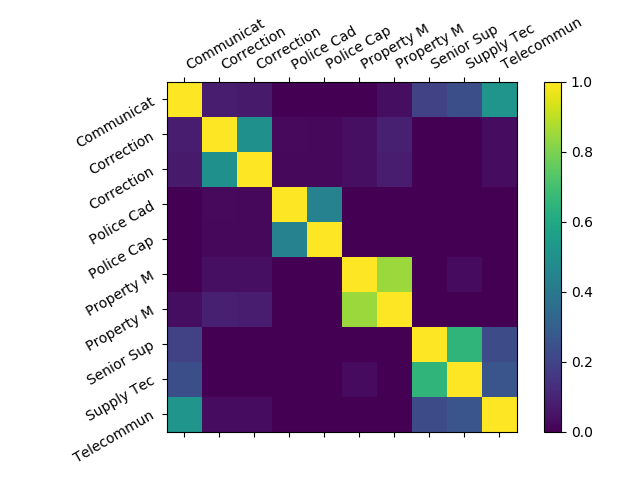
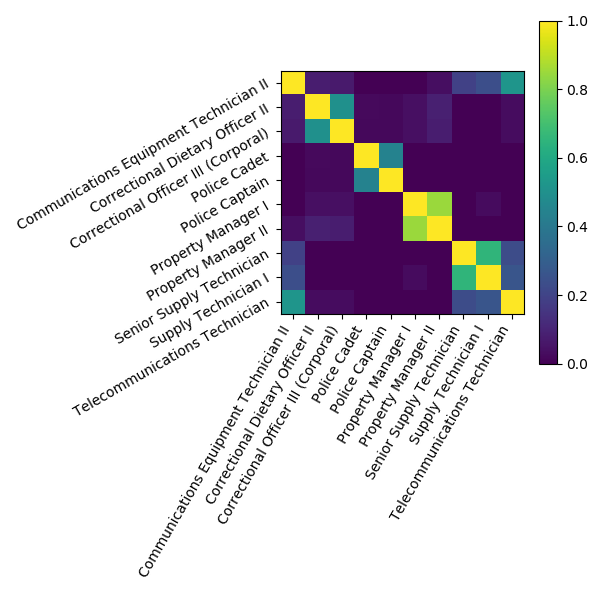
Pushing the docs to dev/ for branch: master, commit 33e820efc6979a7e437038ede7b4303ab44ae2ee

diff --git a/dev/searchindex.js b/dev/searchindex.js
@@ -1,1 +1,1 @@
-Search.setIndex({docnames:["auto_examples/index","auto_examples/midwest_survey","auto_examples/plot_employee_salaries","auto_examples/plot_investigating_dirty_categories","generated/dirty_cat.SimilarityEncoder","generated/dirty_cat.TargetEncoder","generated/dirty_cat.datasets.fetch_employee_salaries","index","versions"],envversion:53,filenames:["auto_examples/index.rst","auto_examples/midwest_survey.rst","auto_examples/plot_employee_salaries.rst","auto_examples/plot_investigating_dirty_categories.rst","generated/dirty_cat.SimilarityEncoder.rst","generated/dirty_cat.TargetEncoder.rst","generated/dirty_cat.datasets.fetch_employee_salaries.rst","index.rst","versions.rst"],objects:{"dirty_cat.SimilarityEncoder":{__init__:[4,1,1,""],categories_:[4,2,1,""],fit:[4,1,1,""],fit_transform:[4,1,1,""],get_params:[4,1,1,""],set_params:[4,1,1,""],transform:[4,1,1,""]},"dirty_cat.TargetEncoder":{__init__:[5,1,1,""],categories_:[5,2,1,""],fit:[5,1,1,""],fit_transform:[5,1,1,""],get_params:[5,1,1,""],set_params:[5,1,1,""],transform:[5,1,1,""]},"dirty_cat.datasets":{fetch_employee_salaries:[6,3,1,""]},dirty_cat:{SimilarityEncoder:[4,0,1,""],TargetEncoder:[5,0,1,""]}},objnames:{"0":["py","class","Python class"],"1":["py","method","Python method"],"2":["py","attribute","Python attribute"],"3":["py","function","Python function"]},objtypes:{"0":"py:class","1":"py:method","2":"py:attribute","3":"py:function"},terms:{"3gram":3,"boolean":[4,5],"case":[3,4],"class":[4,5],"default":[4,5],"float":2,"function":[1,2],"import":[1,3],"long":3,"new":2,"return":[1,2,4,5],"static":[1,2],"true":[1,2,4,5],"try":3,Age:1,MDS:3,That:3,The:[1,2,4,5,7],Use:[1,2],Using:3,__init__:[4,5],aarhu:3,aaron:3,ababio:3,ababu:3,abandon:3,account:3,accuraci:1,adding:[1,2,3],addit:5,administr:3,affect:2,algorithm:3,all:[0,1,4,5,7],all_scor:[1,2],also:3,altern:4,although:3,ani:[4,5],annual:[2,3],append:[1,2],appli:2,approach:5,arang:3,arkansa:1,arrai:[4,5],assign:[2,3],assist:3,associ:[2,5],astyp:[1,2],attribut:[4,5],auditor:3,auto:[4,5],auto_examples_jupyt:[0,7],auto_examples_python:[0,7],automat:[4,5],ax2:3,base:[3,4,8],basic:[0,2,4,6,7],bay:5,below:8,benchmark:[1,2],better:3,between:4,binari:5,both:2,boxplot:[1,2],branch:2,busi:3,calcul:4,call:[1,3],can:[1,2,3,4,5,7],carri:2,categor:[1,2,4,5],categori:[2,3,4,5],categoricalencod:[1,2,4],categoricl:2,categories_:[3,4,5],cax2:3,censu:1,choic:3,chose:2,classif:[1,5],classifi:1,clean:3,clean_column:[1,2],clear:3,clf:[2,5],clf_type:5,close:3,code:[0,1,2,3,7],col:2,colorado:1,colorbar:3,column:[3,4,5],columntransform:[1,2],combin:[1,2],common:3,commun:3,compon:[4,5],compos:[1,2],condit:5,consid:5,consist:[1,2],contain:[2,4,5],copi:[0,7],correspond:[4,5],counti:3,countri:1,coupl:3,cours:3,creat:3,crop:3,cross:[1,2],cross_val_scor:[1,2],curat:7,current:[2,3],dakota:1,data:[0,4,5,6,7],dataset:[1,2,3],datataset:2,date:[2,3],david:3,deep:[4,5],def:[1,2],denot:[4,5],dens:[1,2],depart:[2,3],depend:2,descript:[1,2],desir:[4,5],determin:[4,5],dev0:8,dev:8,differ:[1,2,3],directori:[0,7],dirti:[2,4],dirty_cat:[1,2],dirty_column:[1,2],dissimilar:3,distanc:3,distribut:3,divis:3,doe:[1,3],doing:3,download:[0,1,2,3,7],drop:[1,2,7],dtype:[3,4,5],dure:[4,5],each:[1,4,5],educ:1,effect:5,emb:3,embed:3,empir:5,employe:[0,3,4,5,6,7],employee_salari:[2,3],enc:2,encod:[4,5,7],encoder_dict:1,encoders_dict:2,encoding_method:[1,2],encount:[4,5],end:1,enforc:3,ensembl:1,equip:3,error:[4,5],essaya:3,estim:[4,5],etc:3,eventu:2,exampl:2,execut:[0,3,7],expect:[4,5],fals:[1,2,3],featur:[1,2,4,5],fetch_employee_salari:[2,3],fetch_midwest_survei:1,figur:3,first:[1,2,3],fit:[3,4,5],fit_param:[4,5],fit_transform:[3,4,5],float64:[4,5],follow:[0,2,7],fontsiz:3,form:[4,5],format:2,found:[4,5],from:[1,2,3,4,5],full:3,full_nam:3,functiontransform:[1,2],galleri:[0,1,2,3,7],gender:[1,2,3],gener:[0,1,2,3,7],get:[2,3,4,5],get_param:[4,5],git:8,given:5,godfr:3,gram:3,grasp:3,gross:3,handle_unknown:[1,2,4,5],has:5,have:[0,2,3,4,5,7],head:3,help:[1,3],here:[1,3],hire:[2,3],hold:[4,5],hot:[1,2,3,4,5],household:1,how:[0,1,2,3,7],howev:3,identif:1,ignor:[1,2,4,5],iii:3,illinoi:1,impact:1,implement:4,improv:1,incom:1,indiana:1,indic:3,indices_:3,initi:3,input:[1,4,5],instal:[0,7],instanci:2,instead:[1,2],instruct:[0,7],int64:3,introductori:[0,7],intuit:3,invers:[4,5],iowa:1,ipynb:[1,2,3],item:2,ith:[4,5],jaro:4,job:3,jupyt:[0,1,2,3,7],kansa:1,kei:2,kentucki:1,kfold:2,kind:[2,3],kneighbor:3,knn:3,label:3,lambda:[2,3],latter:[4,5],learn:[1,2,3],left:3,legend:3,len:3,let:[1,2,3],levenshtein:4,lie:3,like:[2,4,5],linear_model:2,list:[3,4,5,8],live:1,locat:1,look:[0,2,4,6,7],loop:2,lot:[1,3],low:3,make:[0,7],make_pipelin:[1,2],mani:3,manifold:3,manipul:[0,4,6,7],manual:[0,7],map:[4,5],marsha:3,master:2,matplotlib:[1,2,3],matshow:3,max_n:4,mds:3,mean:[1,2],method:[3,4,5],michigan:1,midwest:[0,4,7],midwest_survei:1,midwestern:1,min_n:4,minnesota:1,minut:[1,2,3],missouri:1,mix:[2,4,5],model:3,model_select:[1,2],modul:7,montana:1,more:[1,2],morpholog:[4,7],much:3,multiclass:5,must:[4,5],n_featur:[4,5],n_features_new:[4,5],n_gram:4,n_init:3,n_neighbor:3,n_point:3,n_sampl:[4,5],n_split:[1,2],name:[2,3,4,5],nearest:3,nearestneighbor:3,nebraska:1,neighbor:3,nest:[4,5],ngram:[1,2,3,4],ngram_rang:4,non:7,none:[1,2,4,5],north:1,notebook:[0,1,2,3,7],now:[1,3],num:[1,2],number:[4,5],numer:[1,3,4,5],numpi:[1,2,3,4,5],nuniqu:3,object:[4,5],observ:3,obviou:3,ohio:1,oklahoma:1,onc:1,one:[1,2,3,4,5],onehot:[1,2],onehotencod:[1,4,7],onli:4,open:1,option:[4,5],order:[3,4,5],orthogon:3,other:[1,2,3],our:[1,2,3],out:[1,2,3],output:[2,4,5],over:2,overtim:3,own:1,pai:3,pairwis:4,pam:3,panda:[1,2,3],param:[4,5],paramet:[4,5],part:[1,3],particip:1,particular:7,pass:[4,5],path:[1,2,3],pdf:8,pennsylvania:1,per:[4,5],perform:[2,7],permiss:[0,7],person:1,phase:3,pipelin:[4,5],plai:3,plot_employee_salari:2,plot_investigating_dirty_categori:3,plt:[1,2,3],point:3,posit:[2,3],possibl:[4,5],precomput:3,predicit:2,predict:[0,4,5,6,7],preprocess:[1,7],present:[3,4,5],previou:3,print:[1,2,3],probabl:5,problem:[1,2,5],provid:7,pyplot:[1,2,3],python:[0,1,2,3,7],question:1,quickli:3,rais:[4,5],random:3,random_point:3,random_st:[1,2,3],randomforestclassifi:1,rang:[3,4],rare:5,ratio:4,ravel:[1,2],read_csv:[1,2,3],reason:3,receiv:3,region:1,regress:[2,5],regressor:2,remaind:[1,2],replac:[3,7],repres:5,represent:3,reshap:3,respect:2,result:[4,5],ridg:2,right:1,robust:7,robustli:3,room:3,rotat:3,row:3,run:[0,1,2,3,7],safe:2,salari:[0,3,4,5,6,7],scaler:[1,2],scatter:3,scheme:[4,5],scikit:[1,2,7],score:[1,2],script:[1,2,3],second:[1,2,3],see:[1,3],seed:3,self:[4,5],semant:[0,3,4,7],senior:3,set:[4,5],set_param:[4,5],set_titl:3,set_xtick:3,set_xticklabel:[1,2,3],set_ytick:3,set_yticklabel:3,shape:[3,4,5],should:[4,5],shown:3,shrink:5,shuffl:[1,2],signific:4,similar:[1,2,4],similarity_encod:3,similarityencod:[1,2,7],simpl:[3,4,5],sinc:1,sklearn:[1,2,3,7],small:7,some:[1,2,3],sort:[4,5],sort_valu:3,sorted_valu:3,sourc:[0,1,2,3,4,5,6,7],south:1,specialist:3,specifi:[4,5],sphinx:[0,1,2,3,7],squeez:3,stabl:8,standardscal:[1,2],std:[1,2],store:2,str:[1,2,4],stratifiedkfold:1,string:[4,5,7],strip:2,structur:[2,3],subobject:[4,5],subplot:[1,2,3],suppli:3,suppos:2,sure:[0,7],survei:1,take:[1,2,3,5],target:[2,4,5],target_column:[1,2],targetencod:2,teach:[0,7],technician:3,telecommun:3,term:3,text:3,thei:3,them:[0,2,7],therefor:3,thi:[2,3,4,5],those:3,through:3,tight_layout:3,time:[1,2,3],titl:[2,3],to_datetim:2,too:3,total:[1,2,3],tradit:[1,2,3],train:[3,4,5],transform:[1,2,3,4,5],transformed_valu:3,tupl:4,two_dim_data:3,type:[4,5],typo:7,underfil:3,understand:3,union:[1,2],uniqu:[3,4,5],unknown:[4,5],unsaf:3,updat:[4,5],use:[0,2,3,4,7],used:[4,5,7],using:[1,2],valid:[1,2],valu:[1,2,3,4,5],variabl:[1,2,3,4,5],variant:7,variat:[0,4,7],vector:5,vehicl:3,veri:3,version:[4,5,8],virginia:1,want:[0,3,7],warn:2,web:8,well:[2,3,4,5],west:1,what:1,when:[4,5],where:[0,3,7],wherea:3,whether:[4,5],which:[1,2],why:3,winkler:4,wisconsin:1,with_mean:[1,2],won:3,word2vec:3,word:[1,3],work:[1,3,4,5],would:[1,3],write:[0,7],wyom:1,x_new:[4,5],year:2,yield:3,you:[0,1,7],your:1,zero:[4,5],zip:[0,7]},titles:["dirty_cat  usage examples","Semantic variation in the \u201cMidwest\u201d","Predicting the salary of employees","Basic dirty_cat example: manipulating and looking at data","<code class=\"docutils literal\"><span class=\"pre\">dirty_cat</span></code>.SimilarityEncoder","<code class=\"docutils literal\"><span class=\"pre\">dirty_cat</span></code>.TargetEncoder","<code class=\"docutils literal\"><span class=\"pre\">dirty_cat.datasets</span></code>.fetch_employee_salaries","dirty_cat: machine learning on dirty categories","Available documentation for Scikit-learn"],titleterms:{"class":7,"import":2,"new":3,"try":1,api:7,avail:8,base:7,basic:3,categor:3,categori:7,choos:2,clean:[1,2],column:[1,2],content:[0,7],creat:[1,2],data:[1,2,3],dataset:[6,7],dimension:3,dirti:[1,3,7],dirty_cat:[0,3,4,5,6,7],document:[7,8],each:2,employe:2,encod:[1,2,3],exampl:[0,3,4,5,6,7],featur:3,fetch_employee_salari:6,fit:[1,2],heatmap:3,learn:[7,8],load:1,look:3,loop:1,machin:7,manipul:3,map:3,matrix:3,mean:3,method:[1,2],midwest:1,model:2,multi:3,over:1,pipelin:[1,2],plot:[1,2,3],predict:[1,2],preprocess:2,result:2,ridgecv:2,salari:2,scale:3,scikit:8,semant:1,separ:1,similar:3,similarityencod:[3,4],targetencod:5,tutori:[0,7],usag:[0,7],using:[3,4,5,6],variat:1,well:1,what:3}})
+Search.setIndex({docnames:["auto_examples/index","auto_examples/midwest_survey","auto_examples/plot_employee_salaries","auto_examples/plot_investigating_dirty_categories","generated/dirty_cat.SimilarityEncoder","generated/dirty_cat.TargetEncoder","generated/dirty_cat.datasets.fetch_employee_salaries","index","versions"],envversion:53,filenames:["auto_examples/index.rst","auto_examples/midwest_survey.rst","auto_examples/plot_employee_salaries.rst","auto_examples/plot_investigating_dirty_categories.rst","generated/dirty_cat.SimilarityEncoder.rst","generated/dirty_cat.TargetEncoder.rst","generated/dirty_cat.datasets.fetch_employee_salaries.rst","index.rst","versions.rst"],objects:{"dirty_cat.SimilarityEncoder":{__init__:[4,1,1,""],categories_:[4,2,1,""],fit:[4,1,1,""],fit_transform:[4,1,1,""],get_params:[4,1,1,""],set_params:[4,1,1,""],transform:[4,1,1,""]},"dirty_cat.TargetEncoder":{__init__:[5,1,1,""],categories_:[5,2,1,""],fit:[5,1,1,""],fit_transform:[5,1,1,""],get_params:[5,1,1,""],set_params:[5,1,1,""],transform:[5,1,1,""]},"dirty_cat.datasets":{fetch_employee_salaries:[6,3,1,""]},dirty_cat:{SimilarityEncoder:[4,0,1,""],TargetEncoder:[5,0,1,""]}},objnames:{"0":["py","class","Python class"],"1":["py","method","Python method"],"2":["py","attribute","Python attribute"],"3":["py","function","Python function"]},objtypes:{"0":"py:class","1":"py:method","2":"py:attribute","3":"py:function"},terms:{"3gram":3,"boolean":[4,5],"case":[3,4],"class":[4,5],"default":[4,5],"float":2,"function":[1,2],"import":[1,3],"long":3,"new":2,"return":[1,2,4,5],"static":[1,2],"true":[1,2,4,5],"try":3,Age:1,MDS:3,That:3,The:[1,2,4,5,7],Use:[1,2],Using:3,__init__:[4,5],aarhu:3,aaron:3,ababio:3,ababu:3,abandon:3,account:3,accuraci:1,adding:[1,2,3],addit:5,administr:3,affect:2,algorithm:3,all:[0,1,4,5,7],all_scor:[1,2],also:3,altern:4,although:3,ani:[4,5],annual:[2,3],append:[1,2],appli:2,approach:5,arang:3,arkansa:1,arrai:[4,5],assign:[2,3],assist:3,associ:[2,5],astyp:[1,2],attribut:[4,5],auditor:3,auto:[4,5],auto_examples_jupyt:[0,7],auto_examples_python:[0,7],automat:[4,5],ax2:3,base:[3,4,8],basic:[0,2,4,6,7],bay:5,below:8,benchmark:[1,2],better:3,between:4,binari:5,both:2,boxplot:[1,2],branch:2,busi:3,calcul:4,call:[1,3],can:[1,2,3,4,5,7],carri:2,categor:[1,2,4,5],categori:[2,3,4,5],categoricalencod:[1,2,4],categoricl:2,categories_:[3,4,5],cax2:3,censu:1,choic:3,chose:2,classif:[1,5],classifi:1,clean:3,clean_column:[1,2],clear:3,clf:[2,5],clf_type:5,close:3,code:[0,1,2,3,7],col:2,colorado:1,colorbar:3,column:[3,4,5],columntransform:[1,2],combin:[1,2],common:3,commun:3,compon:[4,5],compos:[1,2],condit:5,consid:5,consist:[1,2],contain:[2,4,5],copi:[0,7],correspond:[4,5],counti:3,countri:1,coupl:3,cours:3,creat:3,cross:[1,2],cross_val_scor:[1,2],curat:7,current:[2,3],dakota:1,data:[0,4,5,6,7],dataset:[1,2,3],datataset:2,date:[2,3],david:3,deep:[4,5],def:[1,2],denot:[4,5],dens:[1,2],depart:[2,3],depend:2,descript:[1,2],desir:[4,5],determin:[4,5],dev0:8,dev:8,differ:[1,2,3],directori:[0,7],dirti:[2,4],dirty_cat:[1,2],dirty_column:[1,2],dissimilar:3,distanc:3,distribut:3,divis:3,doe:[1,3],doing:3,download:[0,1,2,3,7],drop:[1,2,7],dtype:[3,4,5],dure:[4,5],each:[1,4,5],educ:1,effect:5,emb:3,embed:3,empir:5,employe:[0,3,4,5,6,7],employee_salari:[2,3],enc:2,encod:[4,5,7],encoder_dict:1,encoders_dict:2,encoding_method:[1,2],encount:[4,5],end:1,enforc:3,ensembl:1,equip:3,error:[4,5],essaya:3,estim:[4,5],etc:3,eventu:2,exampl:2,execut:[0,3,7],expect:[4,5],fals:[1,2,3],featur:[1,2,4,5],fetch_employee_salari:[2,3],fetch_midwest_survei:1,figsiz:3,first:[1,2,3],fit:[3,4,5],fit_param:[4,5],fit_transform:[3,4,5],float64:[4,5],follow:[0,2,7],fontsiz:3,form:[4,5],format:2,found:[4,5],from:[1,2,3,4,5],full:3,full_nam:3,functiontransform:[1,2],galleri:[0,1,2,3,7],gender:[1,2,3],gener:[0,1,2,3,7],get:[2,3,4,5],get_param:[4,5],git:8,given:5,godfr:3,gram:3,grasp:3,gross:3,handle_unknown:[1,2,4,5],has:5,have:[0,2,3,4,5,7],head:3,help:[1,3],here:[1,3],hire:[2,3],hold:[4,5],hot:[1,2,3,4,5],household:1,how:[0,1,2,3,7],howev:3,identif:1,ignor:[1,2,4,5],iii:3,illinoi:1,impact:1,implement:4,improv:1,incom:1,indiana:1,indic:3,indices_:3,initi:3,input:[1,4,5],instal:[0,7],instanci:2,instead:[1,2],instruct:[0,7],int64:3,introductori:[0,7],intuit:3,invers:[4,5],iowa:1,ipynb:[1,2,3],item:2,ith:[4,5],jaro:4,job:3,jupyt:[0,1,2,3,7],kansa:1,kei:2,kentucki:1,kfold:2,kind:[2,3],kneighbor:3,knn:3,lambda:2,latter:[4,5],learn:[1,2,3],legend:3,len:3,let:[1,2,3],levenshtein:4,lie:3,like:[2,4,5],linear_model:2,list:[4,5,8],live:1,locat:1,look:[0,2,4,6,7],loop:2,lot:[1,3],low:3,make:[0,7],make_pipelin:[1,2],mani:3,manifold:3,manipul:[0,4,6,7],manual:[0,7],map:[4,5],marsha:3,master:2,matplotlib:[1,2,3],matshow:3,max_n:4,mds:3,mean:[1,2],method:[3,4,5],michigan:1,midwest:[0,4,7],midwest_survei:1,midwestern:1,min_n:4,minnesota:1,minut:[1,2,3],missouri:1,mix:[2,4,5],model:3,model_select:[1,2],modul:7,montana:1,more:[1,2],morpholog:[4,7],multiclass:5,must:[4,5],n_featur:[4,5],n_features_new:[4,5],n_gram:4,n_init:3,n_neighbor:3,n_point:3,n_sampl:[4,5],n_split:[1,2],name:[2,3,4,5],nearest:3,nearestneighbor:3,nebraska:1,neighbor:3,nest:[4,5],ngram:[1,2,3,4],ngram_rang:4,non:7,none:[1,2,4,5],north:1,notebook:[0,1,2,3,7],now:[1,3],num:[1,2],number:[4,5],numer:[1,3,4,5],numpi:[1,2,3,4,5],nuniqu:3,object:[4,5],observ:3,obviou:3,ohio:1,oklahoma:1,onc:1,one:[1,2,3,4,5],onehot:[1,2],onehotencod:[1,4,7],onli:4,open:1,option:[4,5],order:[3,4,5],orthogon:3,other:[1,2,3],our:[1,2,3],out:[1,2,3],output:[2,4,5],over:2,overtim:3,own:1,pai:3,pairwis:4,pam:3,panda:[1,2,3],param:[4,5],paramet:[4,5],part:[1,3],particip:1,particular:7,pass:[4,5],path:[1,2,3],pdf:8,pennsylvania:1,per:[4,5],perform:[2,7],permiss:[0,7],person:1,phase:3,pipelin:[4,5],plai:3,plot_employee_salari:2,plot_investigating_dirty_categori:3,plt:[1,2,3],point:3,posit:[2,3],possibl:[4,5],precomput:3,predicit:2,predict:[0,4,5,6,7],preprocess:[1,7],present:[3,4,5],previou:3,print:[1,2,3],probabl:5,problem:[1,2,5],provid:7,pyplot:[1,2,3],python:[0,1,2,3,7],question:1,quickli:3,rais:[4,5],random:3,random_point:3,random_st:[1,2,3],randomforestclassifi:1,rang:[3,4],rare:5,ratio:4,ravel:[1,2],read_csv:[1,2,3],reason:3,receiv:3,region:1,regress:[2,5],regressor:2,remaind:[1,2],replac:[3,7],repres:5,represent:3,reshap:3,respect:2,result:[4,5],ridg:2,right:[1,3],robust:7,robustli:3,rotat:3,row:3,run:[0,1,2,3,7],safe:2,salari:[0,3,4,5,6,7],scaler:[1,2],scatter:3,scheme:[4,5],scikit:[1,2,7],score:[1,2],script:[1,2,3],second:[1,2,3],see:[1,3],seed:3,self:[4,5],semant:[0,3,4,7],senior:3,set:[4,5],set_param:[4,5],set_titl:3,set_xtick:3,set_xticklabel:[1,2,3],set_ytick:3,set_yticklabel:3,shape:[3,4,5],should:[4,5],shown:3,shrink:5,shuffl:[1,2],signific:4,similar:[1,2,4],similarity_encod:3,similarityencod:[1,2,7],simpl:[3,4,5],sinc:1,sklearn:[1,2,3,7],small:7,some:[1,2,3],sort:[4,5],sort_valu:3,sorted_valu:3,sourc:[0,1,2,3,4,5,6,7],south:1,specialist:3,specifi:[4,5],sphinx:[0,1,2,3,7],squeez:3,stabl:8,standardscal:[1,2],std:[1,2],store:2,str:[1,2,4],stratifiedkfold:1,string:[4,5,7],strip:2,structur:[2,3],subobject:[4,5],subplot:[1,2,3],suppli:3,suppos:2,sure:[0,7],survei:1,take:[1,2,3,5],target:[2,4,5],target_column:[1,2],targetencod:2,teach:[0,7],technician:3,telecommun:3,term:3,text:3,them:[0,2,7],therefor:3,thi:[2,3,4,5],those:3,through:3,tick_bottom:3,tight_layout:3,time:[1,2,3],titl:[2,3],to_datetim:2,too:3,total:[1,2,3],tradit:[1,2,3],train:[3,4,5],transform:[1,2,3,4,5],transformed_valu:3,tupl:4,two_dim_data:3,type:[4,5],typo:7,underfil:3,understand:3,union:[1,2],uniqu:[3,4,5],unknown:[4,5],unsaf:3,updat:[4,5],use:[0,2,3,4,7],used:[4,5,7],using:[1,2],valid:[1,2],valu:[1,2,3,4,5],variabl:[1,2,3,4,5],variant:7,variat:[0,4,7],vector:5,vehicl:3,veri:3,version:[4,5,8],virginia:1,want:[0,3,7],warn:2,web:8,well:[2,3,4,5],west:1,what:1,when:[4,5],where:[0,3,7],wherea:3,whether:[4,5],which:[1,2],why:3,winkler:4,wisconsin:1,with_mean:[1,2],won:3,word2vec:3,word:[1,3],work:[1,3,4,5],would:[1,3],write:[0,7],wyom:1,x_new:[4,5],xaxi:3,year:2,yield:3,you:[0,1,7],your:1,zero:[4,5],zip:[0,7]},titles:["dirty_cat  usage examples","Semantic variation in the \u201cMidwest\u201d","Predicting the salary of employees","Basic dirty_cat example: manipulating and looking at data","<code class=\"docutils literal\"><span class=\"pre\">dirty_cat</span></code>.SimilarityEncoder","<code class=\"docutils literal\"><span class=\"pre\">dirty_cat</span></code>.TargetEncoder","<code class=\"docutils literal\"><span class=\"pre\">dirty_cat.datasets</span></code>.fetch_employee_salaries","dirty_cat: machine learning on dirty categories","Available documentation for Scikit-learn"],titleterms:{"class":7,"import":2,"new":3,"try":1,api:7,avail:8,base:7,basic:3,categor:3,categori:7,choos:2,clean:[1,2],column:[1,2],content:[0,7],creat:[1,2],data:[1,2,3],dataset:[6,7],dimension:3,dirti:[1,3,7],dirty_cat:[0,3,4,5,6,7],document:[7,8],each:2,employe:2,encod:[1,2,3],exampl:[0,3,4,5,6,7],featur:3,fetch_employee_salari:6,fit:[1,2],heatmap:3,learn:[7,8],load:1,look:3,loop:1,machin:7,manipul:3,map:3,matrix:3,mean:3,method:[1,2],midwest:1,model:2,multi:3,over:1,pipelin:[1,2],plot:[1,2,3],predict:[1,2],preprocess:2,result:2,ridgecv:2,salari:2,scale:3,scikit:8,semant:1,separ:1,similar:3,similarityencod:[3,4],targetencod:5,tutori:[0,7],usag:[0,7],using:[3,4,5,6],variat:1,well:1,what:3}})

diff --git a/dev/auto_examples/plot_investigating_dirty_categories.html b/dev/auto_examples/plot_investigating_dirty_categories.html
@@ -187,14 +187,13 @@ to get an intuition of what the similarity encoder is doing:</p>
 <div class="section" id="heatmap-of-the-similarity-matrix">
 <h3>Heatmap of the similarity matrix<a class="headerlink" href="#heatmap-of-the-similarity-matrix" title="Permalink to this headline">¶</a></h3>
 <p>We can also plot the distance matrix for those observations:</p>
-<div class="highlight-python"><div class="highlight"><pre><span></span><span class="n">f2</span><span class="p">,</span> <span class="n">ax2</span> <span class="o">=</span> <span class="n">plt</span><span class="o">.</span><span class="n">subplots</span><span class="p">()</span>
+<div class="highlight-python"><div class="highlight"><pre><span></span><span class="n">f2</span><span class="p">,</span> <span class="n">ax2</span> <span class="o">=</span> <span class="n">plt</span><span class="o">.</span><span class="n">subplots</span><span class="p">(</span><span class="n">figsize</span><span class="o">=</span><span class="p">(</span><span class="mi">6</span><span class="p">,</span> <span class="mi">6</span><span class="p">))</span>
 <span class="n">cax2</span> <span class="o">=</span> <span class="n">ax2</span><span class="o">.</span><span class="n">matshow</span><span class="p">(</span><span class="n">transformed_values</span><span class="p">[</span><span class="n">indices</span><span class="p">,</span> <span class="p">:][:,</span> <span class="n">indices</span><span class="p">])</span>
 <span class="n">ax2</span><span class="o">.</span><span class="n">set_yticks</span><span class="p">(</span><a href="http://docs.scipy.org/doc/numpy/reference/generated/numpy.arange.html#numpy.arange" title="View documentation for numpy.arange"><span class="n">np</span><span class="o">.</span><span class="n">arange</span></a><span class="p">(</span><span class="nb">len</span><span class="p">(</span><span class="n">indices</span><span class="p">)))</span>
 <span class="n">ax2</span><span class="o">.</span><span class="n">set_xticks</span><span class="p">(</span><a href="http://docs.scipy.org/doc/numpy/reference/generated/numpy.arange.html#numpy.arange" title="View documentation for numpy.arange"><span class="n">np</span><span class="o">.</span><span class="n">arange</span></a><span class="p">(</span><span class="nb">len</span><span class="p">(</span><span class="n">indices</span><span class="p">)))</span>
-<span class="c1"># we crop the labels to that they do not take too much rooms in the figure</span>
-<span class="n">labels</span> <span class="o">=</span> <span class="nb">list</span><span class="p">(</span><span class="nb">map</span><span class="p">(</span><span class="k">lambda</span> <span class="n">x</span><span class="p">:</span> <span class="n">x</span><span class="p">[:</span><span class="mi">10</span><span class="p">],</span> <span class="n">sorted_values</span><span class="p">[</span><span class="n">indices</span><span class="p">]))</span>
-<span class="n">ax2</span><span class="o">.</span><span class="n">set_yticklabels</span><span class="p">(</span><span class="n">labels</span><span class="p">,</span> <span class="n">rotation</span><span class="o">=</span><span class="s1">&#39;30&#39;</span><span class="p">)</span>
-<span class="n">ax2</span><span class="o">.</span><span class="n">set_xticklabels</span><span class="p">(</span><span class="n">labels</span><span class="p">,</span> <span class="n">rotation</span><span class="o">=</span><span class="s1">&#39;30&#39;</span><span class="p">,</span> <span class="n">ha</span><span class="o">=</span><span class="s1">&#39;left&#39;</span><span class="p">)</span>
+<span class="n">ax2</span><span class="o">.</span><span class="n">set_yticklabels</span><span class="p">(</span><span class="n">sorted_values</span><span class="p">[</span><span class="n">indices</span><span class="p">],</span> <span class="n">rotation</span><span class="o">=</span><span class="s1">&#39;30&#39;</span><span class="p">)</span>
+<span class="n">ax2</span><span class="o">.</span><span class="n">set_xticklabels</span><span class="p">(</span><span class="n">sorted_values</span><span class="p">[</span><span class="n">indices</span><span class="p">],</span> <span class="n">rotation</span><span class="o">=</span><span class="s1">&#39;60&#39;</span><span class="p">,</span> <span class="n">ha</span><span class="o">=</span><span class="s1">&#39;right&#39;</span><span class="p">)</span>
+<span class="n">ax2</span><span class="o">.</span><span class="n">xaxis</span><span class="o">.</span><span class="n">tick_bottom</span><span class="p">()</span>
 <span class="n">f2</span><span class="o">.</span><span class="n">colorbar</span><span class="p">(</span><span class="n">cax2</span><span class="p">)</span>
 <span class="n">f2</span><span class="o">.</span><span class="n">tight_layout</span><span class="p">()</span>
 </pre></div>
@@ -205,7 +204,7 @@ nearest neighbor is “telecommunication technician”, although it is also
 very close to senior “supply technician”: therefore, we grasp the
 “communication” part (not initially present in the category as a unique word)
 as well as the technician part of this category.</p>
-<p><strong>Total running time of the script:</strong> ( 0 minutes  17.300 seconds)</p>
+<p><strong>Total running time of the script:</strong> ( 1 minutes  12.601 seconds)</p>
 <div class="sphx-glr-footer docutils container">
 <div class="sphx-glr-download docutils container">
 <a class="reference download internal" href="../_downloads/plot_investigating_dirty_categories.py" download=""><code class="xref download docutils literal"><span class="pre">Download</span> <span class="pre">Python</span> <span class="pre">source</span> <span class="pre">code:</span> <span class="pre">plot_investigating_dirty_categories.py</span></code></a></div>

diff --git a/dev/auto_examples/midwest_survey.html b/dev/auto_examples/midwest_survey.html
@@ -185,7 +185,7 @@ using a cross validation score:</p>
 <img alt="../_images/sphx_glr_midwest_survey_001.png" class="align-center" src="../_images/sphx_glr_midwest_survey_001.png" />
 <p>We can see that encoding the data using a SimilarityEncoder instead of
 OneHotEncoder helps a lot in improving the cross validation score!</p>
-<p><strong>Total running time of the script:</strong> ( 0 minutes  8.494 seconds)</p>
+<p><strong>Total running time of the script:</strong> ( 0 minutes  7.264 seconds)</p>
 <div class="sphx-glr-footer docutils container">
 <div class="sphx-glr-download docutils container">
 <a class="reference download internal" href="../_downloads/midwest_survey.py" download=""><code class="xref download docutils literal"><span class="pre">Download</span> <span class="pre">Python</span> <span class="pre">source</span> <span class="pre">code:</span> <span class="pre">midwest_survey.py</span></code></a></div>

diff --git a/dev/auto_examples/plot_employee_salaries.html b/dev/auto_examples/plot_employee_salaries.html
@@ -187,7 +187,7 @@ and and store the returned cross-validation score</p>
 </pre></div>
 </div>
 <img alt="../_images/sphx_glr_plot_employee_salaries_001.png" class="align-center" src="../_images/sphx_glr_plot_employee_salaries_001.png" />
-<p><strong>Total running time of the script:</strong> ( 0 minutes  19.688 seconds)</p>
+<p><strong>Total running time of the script:</strong> ( 0 minutes  23.474 seconds)</p>
 <div class="sphx-glr-footer docutils container">
 <div class="sphx-glr-download docutils container">
 <a class="reference download internal" href="../_downloads/plot_employee_salaries.py" download=""><code class="xref download docutils literal"><span class="pre">Download</span> <span class="pre">Python</span> <span class="pre">source</span> <span class="pre">code:</span> <span class="pre">plot_employee_salaries.py</span></code></a></div>

diff --git a/dev/_downloads/plot_investigating_dirty_categories.py b/dev/_downloads/plot_investigating_dirty_categories.py
@@ -106,14 +106,13 @@ ax.set_title(
 # Heatmap of the similarity matrix
 # ------------------------------------------------------------
 # We can also plot the distance matrix for those observations:
-f2, ax2 = plt.subplots()
+f2, ax2 = plt.subplots(figsize=(6, 6))
 cax2 = ax2.matshow(transformed_values[indices, :][:, indices])
 ax2.set_yticks(np.arange(len(indices)))
 ax2.set_xticks(np.arange(len(indices)))
-# we crop the labels to that they do not take too much rooms in the figure
-labels = list(map(lambda x: x[:10], sorted_values[indices]))
-ax2.set_yticklabels(labels, rotation='30')
-ax2.set_xticklabels(labels, rotation='30', ha='left')
+ax2.set_yticklabels(sorted_values[indices], rotation='30')
+ax2.set_xticklabels(sorted_values[indices], rotation='60', ha='right')
+ax2.xaxis.tick_bottom()
 f2.colorbar(cax2)
 f2.tight_layout()
 
